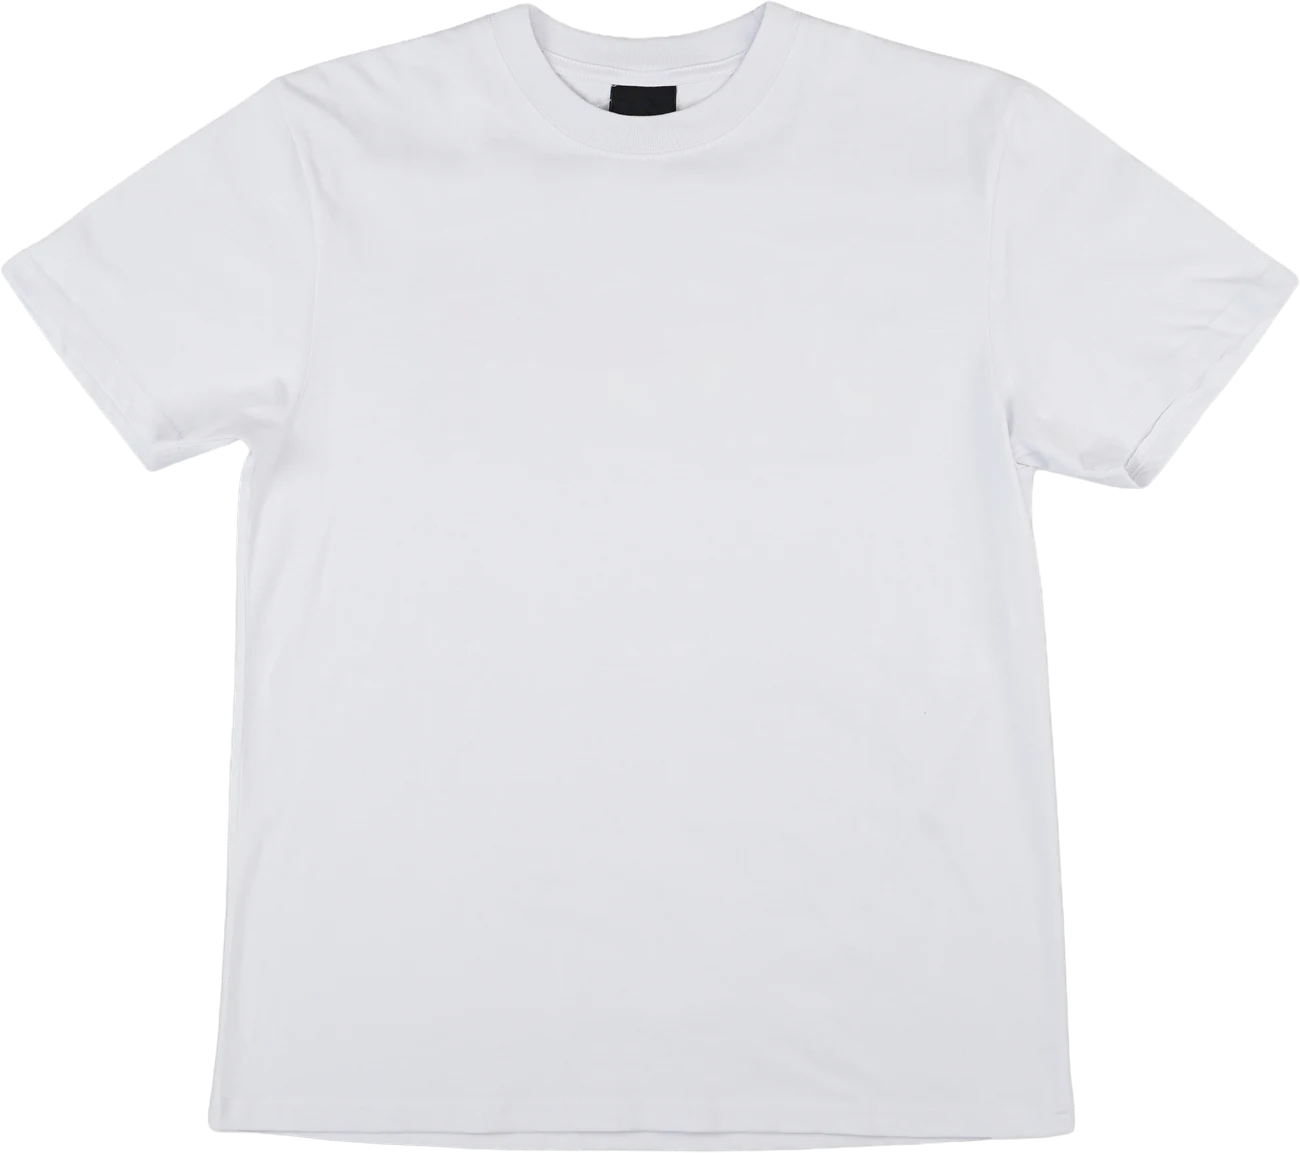
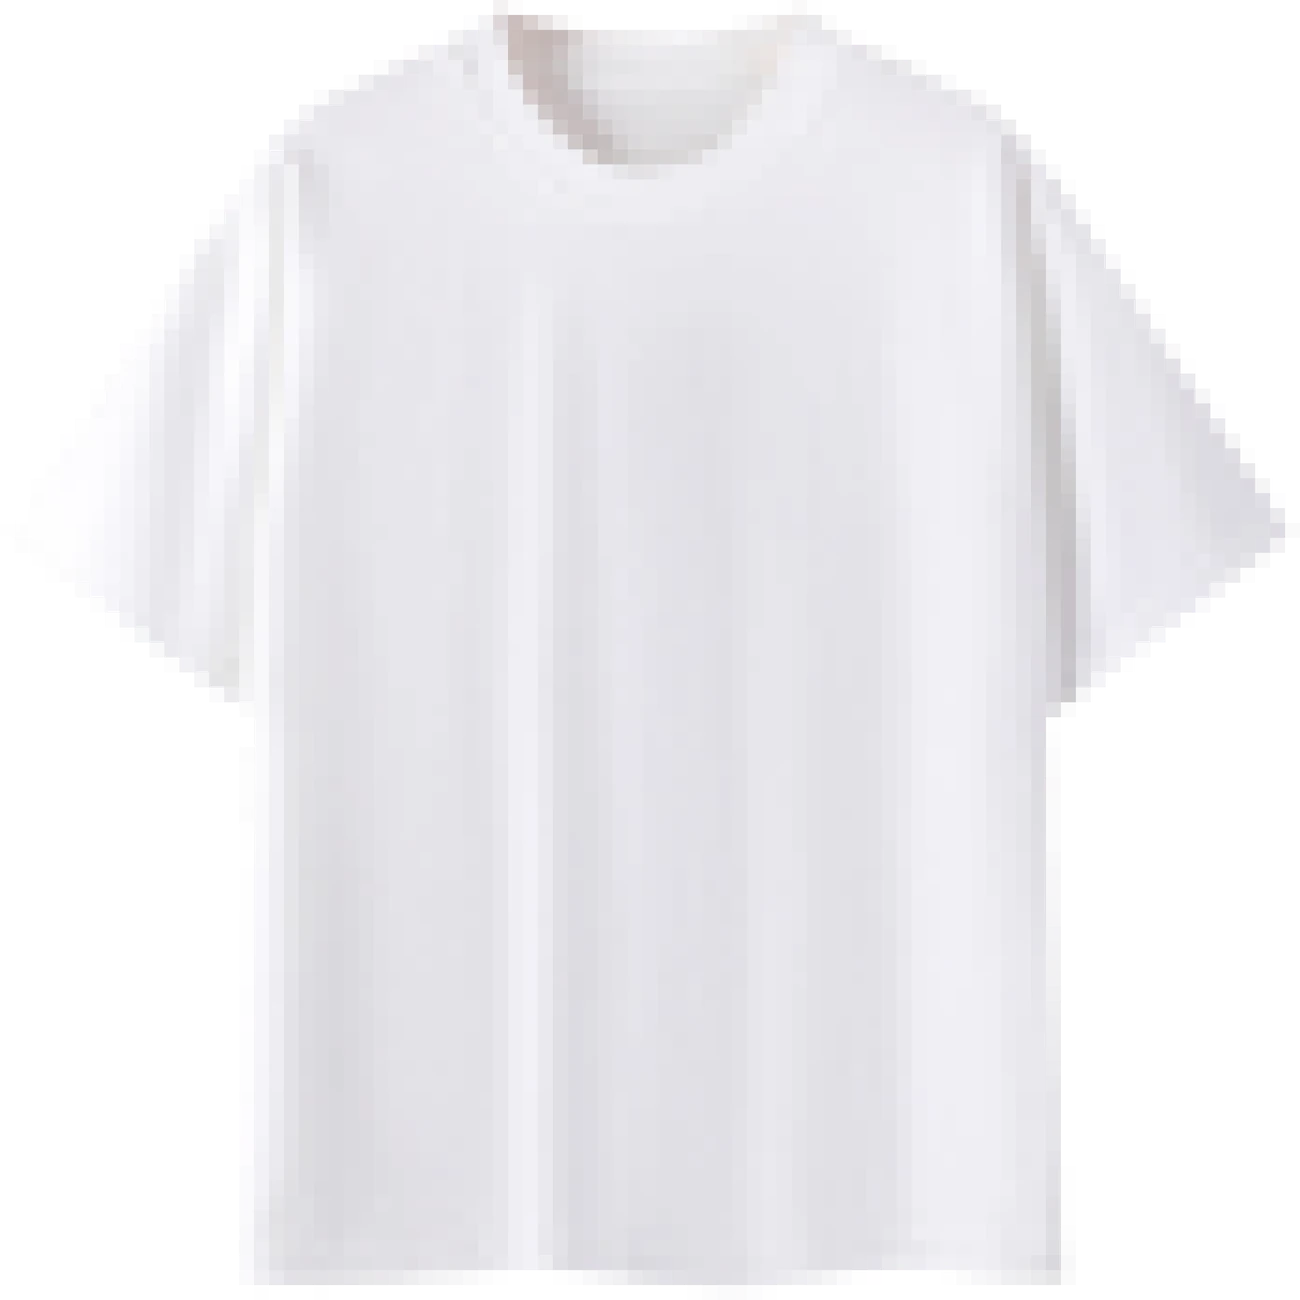
Replace the hero tee with the new pixel tee; refit blur boxes
Claude-Session: https://claude.ai/code/session_01KQRRewu1uQnq5bfyZoX8Ze

diff --git a/chroma/app/globals.css b/chroma/app/globals.css
@@ -469,3 +469,7 @@ h2{margin-bottom:22px}
 input[type=text],.cform input[type=email],.cform textarea,.lbr select{color:var(--ink)}
 input::placeholder,textarea::placeholder{color:var(--mu)}
 .szb:disabled{opacity:.45;cursor:not-allowed}.szb:disabled:hover{border-color:var(--gb)}
+
+/* new (pixel) tee is square and its body is narrower: re-fit the boxes over the chest */
+.cens{left:21%;top:20%;width:58%;height:50%}
+.tb{left:23%;top:24%;width:54%;height:40%}
